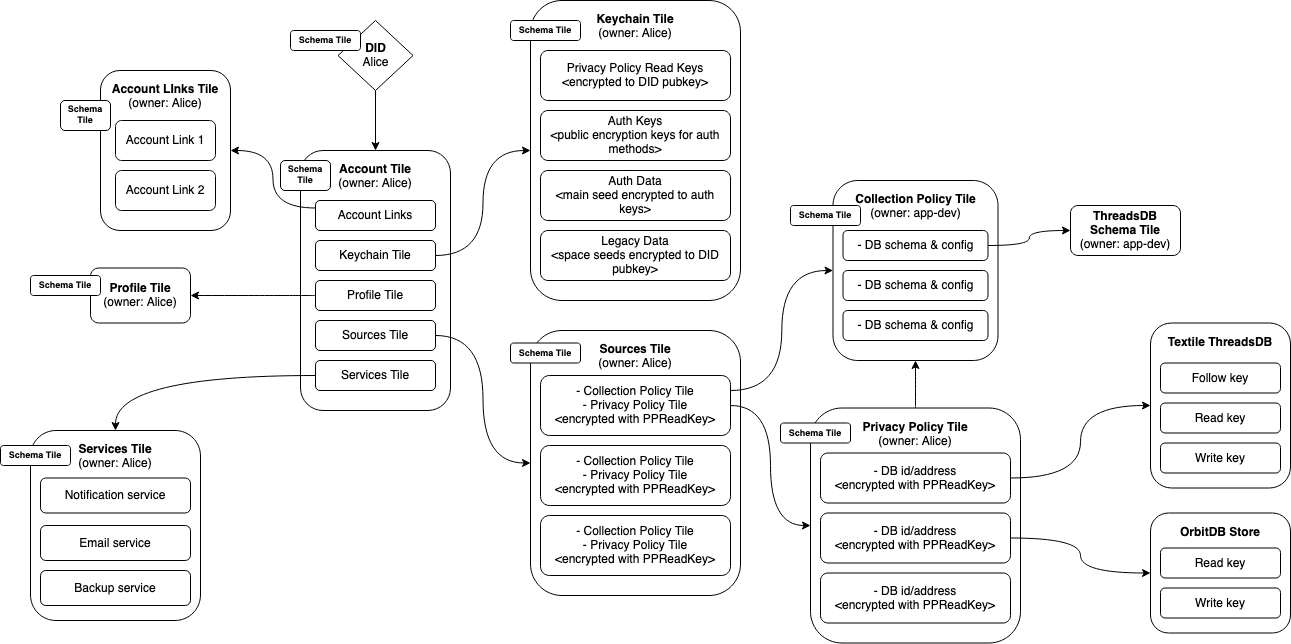
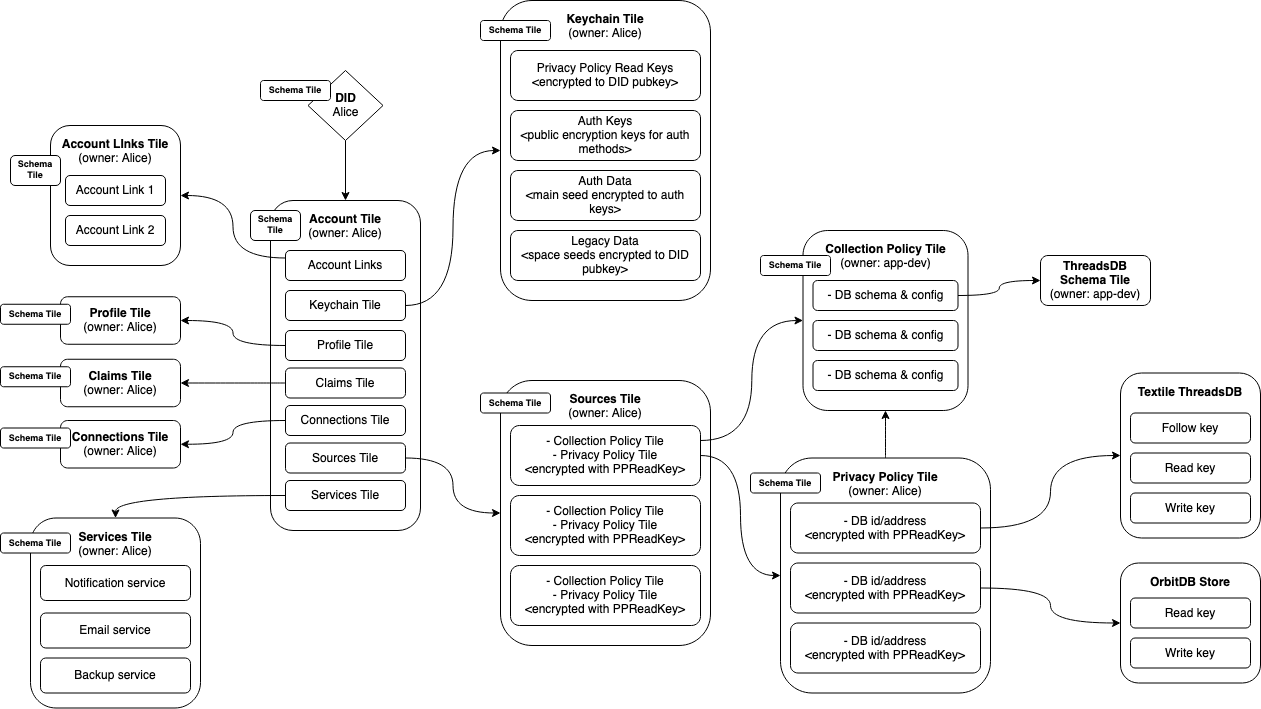
feat: rename to templates, add claims and connections tile

diff --git a/templates/account.md b/templates/account.md
@@ -1,6 +1,6 @@
-# User Account Model
+# Account Template
 
-> The default user account model in Ceramic provides a structured and flexible way to represent a user and their information. This model is constructued using a set of tile documents that represent different aspects of the users account, such as data sources, public profile, associated services, etc. Together they enable a user centric data and service routing system.
+> The account temple provides a structured and flexible way to represent a user and their information in Ceramic. This template is constructs a set of tile documents that represent different aspects of a users account, such as data sources, public profile, associated services, etc. Together they enable a user centric data and service routing system.
 
 
 
@@ -8,13 +8,13 @@
 
 ## Overview
 
-The Ceramic account model is a data structure that represents a user. It uses different tiles to keep track of various categories of data associated with the user. The five main categories are: **Account Links** Which keeps track of all the [account-links](./doctypes/account-link.md) that map to the users DID. The **Keychain** which keeps track of data that allows users to authenticate to their DID. Each account can have a **Profile** which contains public information about the account. **Services** describes the prefered services that the user can configure for the account, for example how to send them a message. Finally **Sources** describe different databases that is associated to the users account. These five categories are all described as Ceramic tiles and the **Account tile** contains pointers to these specific tiles. The users DID contains a link to this account tile. All of these tiles have a defined schema, most of which are defined below. 
+The Ceramic account template is a data structure that represents a user. It uses different tiles to keep track of various categories of data associated with the user. The five main categories are: **Account Links** Which keeps track of all the [account-links](./doctypes/account-link.md) that map to the users DID. The **Keychain** which keeps track of data that allows users to authenticate to their DID. Each account can have a **Profile** which contains public information about the account. **Services** describes the prefered services that the user can configure for the account, for example how to send them a message. Finally **Sources** describe different databases that is associated to the users account. These five categories are all described as Ceramic tiles and the **Account tile** contains pointers to these specific tiles. The users DID contains a link to this account tile. All of these tiles have a defined schema, most of which are defined below. 
 
 In the above graphic we can see that all tiles are owned and created by the user *Alice*, with the exception of the **Collection Policy**. Instead the **Collection Policy** is a tile that is created by an application developer to describe the data of their application. This means that there is only one **Collection policy** for all the user of an app. From the account perspective the **Sources** tile contains an array of encrypted tuples of **Collection policies** and **Privacy policies**. The Privacy policy contains the id/address of particular database instances that are controlled by the given user, while the **Collection Policy** contains information about the schema and configuration of these databases. This abstraction allows users data to remain encrypted and private while app developers can browse available data from existing applications by looking at **Collection policies** that are availible in the Ceramic network. As an example in the graphic above there is a **ThreadsDB Schema tile** which describes the schema used by a [*Textile ThreadsDB*](https://github.com/textileio/js-threads) instance.
 
 ## Tile definitions
 
-The various user account model tiles can be found below. Each have a short description along with their schema and simple examples. 
+The various user account tiles can be found below. Each have a short description along with their schema and simple examples. 
 
 ### Account Tile
 
@@ -95,6 +95,58 @@ The account links tile is simply an array of docIds for [account-links](./doctyp
 ```json
 ["ceramic://bafyljsdf1", "ceramic://bafyljsdf2"]
 ```
+
+
+
+### Claims Tile
+
+The claims tile contains a list of claims issued by third party services about the user. For example this could include social verifications for twitter, discord, and discourse. 
+
+##### Schema
+
+```json
+{
+    "$schema": "http://json-schema.org/draft-06/schema#",
+    "type": "array",
+    "items": {
+        "type": "string"
+    },
+    "definitions": {}
+}
+```
+
+##### Example
+
+```jsonc
+[<JWT>, <JWT>]
+```
+
+
+
+### Connections Tile
+
+The connection tile contains a list of DIDs that the user is following.
+
+##### Schema
+
+```json
+{
+    "$schema": "http://json-schema.org/draft-06/schema#",
+    "type": "array",
+    "items": {
+        "type": "string"
+    },
+    "definitions": {}
+}
+```
+
+##### Example
+
+```jsonc
+["did:3:bafy1...", "did:3:bafy2..."]
+```
+
+
 
 
 

diff --git a/README.md b/README.md
@@ -24,11 +24,11 @@
 - [Document update propagation](#document-update-propagation)
   - [Queries](#queries)
   - [Future improvements](#future-improvements)
+- [Templates](#templates)
+  - [Account](./templates/account.md)
 - [Ceramic Services](#ceramic-services)
   - [Anchor Service](#anchor-service)
   - [Other Services](#other-services)
-- [Common Data Models](#common-data-models)
-  - [User Account](./data-models/account.md)
 - [Implementations](#implementations)
 
 
@@ -229,6 +229,12 @@ The main reason for having one pubsub topic that all documents are shared within
 
 A potential problem with the pubsub approach is some form of DoS. When a node makes a request for a specific document a malicious actor could send a lot of heads that do not correspond to the requested document. This would result in the requesting node having to do a lot of computation to make sure all of the received heads are in fact not correct. There are a few different way to solve this. One is to use a tit-for-tat system where nodes disconnect from nodes that send many incorrect responses. If many users do this it should effectively block malicious nodes as they start performing an attack. A different approach is to include a zero-knowledge proof in the response that proves that the CID in the message indeed does correspond to the correct document.
 
+## Templates
+
+Ceramic provides a lot of freedom in how data models can be defined. Things can get quite complicated when documents link other documents. Sometimes more strict models are needed in order to achieve certain use cases. To aid in the process of creating strict data models Ceramic provides Templates. A template defines a structure of one or more documents that are linked together. Below you can find some predefined templates.
+
+* [Account](./templates/account.md) - the default user account model of Ceramic
+
 ## Ceramic services
 
 The `tile` doctype can be used to describe services that are made available though through the Ceramic network. A service provider creates a tile document that includes the description of the api that can be used to reach the service (e.g. http api, libp2p protocol, etc). The tile document may also include payment information, i.e. if some form of payment is needed in order to use the service. Ceramic enables many types of services, but the main focus of this document is the *anchor service* which is required for a ceramic node to be able to make updates a document. Please see the Ceramic [Use Cases](https://github.com/ceramicnetwork/ceramic/blob/master/OVERVIEW.md#open-web-services) for descriptions of other services.
@@ -240,12 +246,6 @@ As mentioned in the [Blockchain anchoring](#blockchain-anchoring) section there 
 ### Other services
 
 Using Ceramic [Service Policy tiles](./doctypes/tile.md#service-policy) almost any type of services can be represented. Some examples of this include Payments, Data hosting, Indexing, etc. Adding a service to ceramic allows it to be used in a user centric way. Services can be enabled per user and apps can route to different services though the users identity.
-
-## Common Data Models
-
-Ceramic provides a lot of freedom in how data models can be defined. Sometimes more strict models are needed in order to achieve certain use cases. 
-
-* [User Account](./data-models/account.md) - the default user account model of Ceramic
 
 ## Implementations
 
